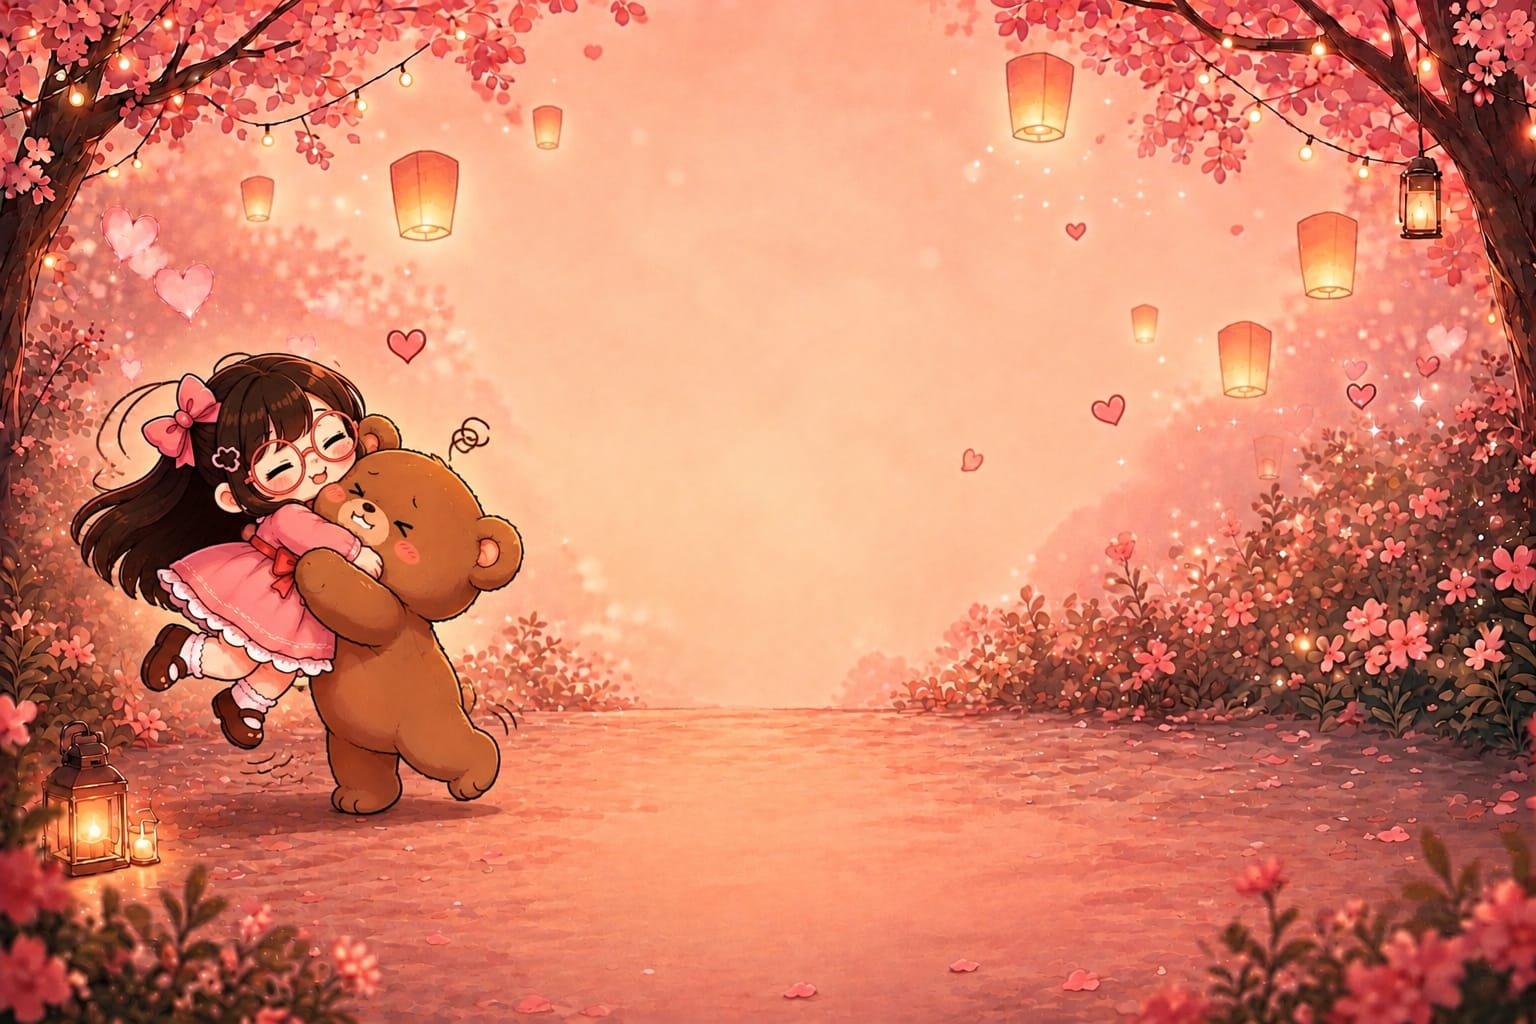
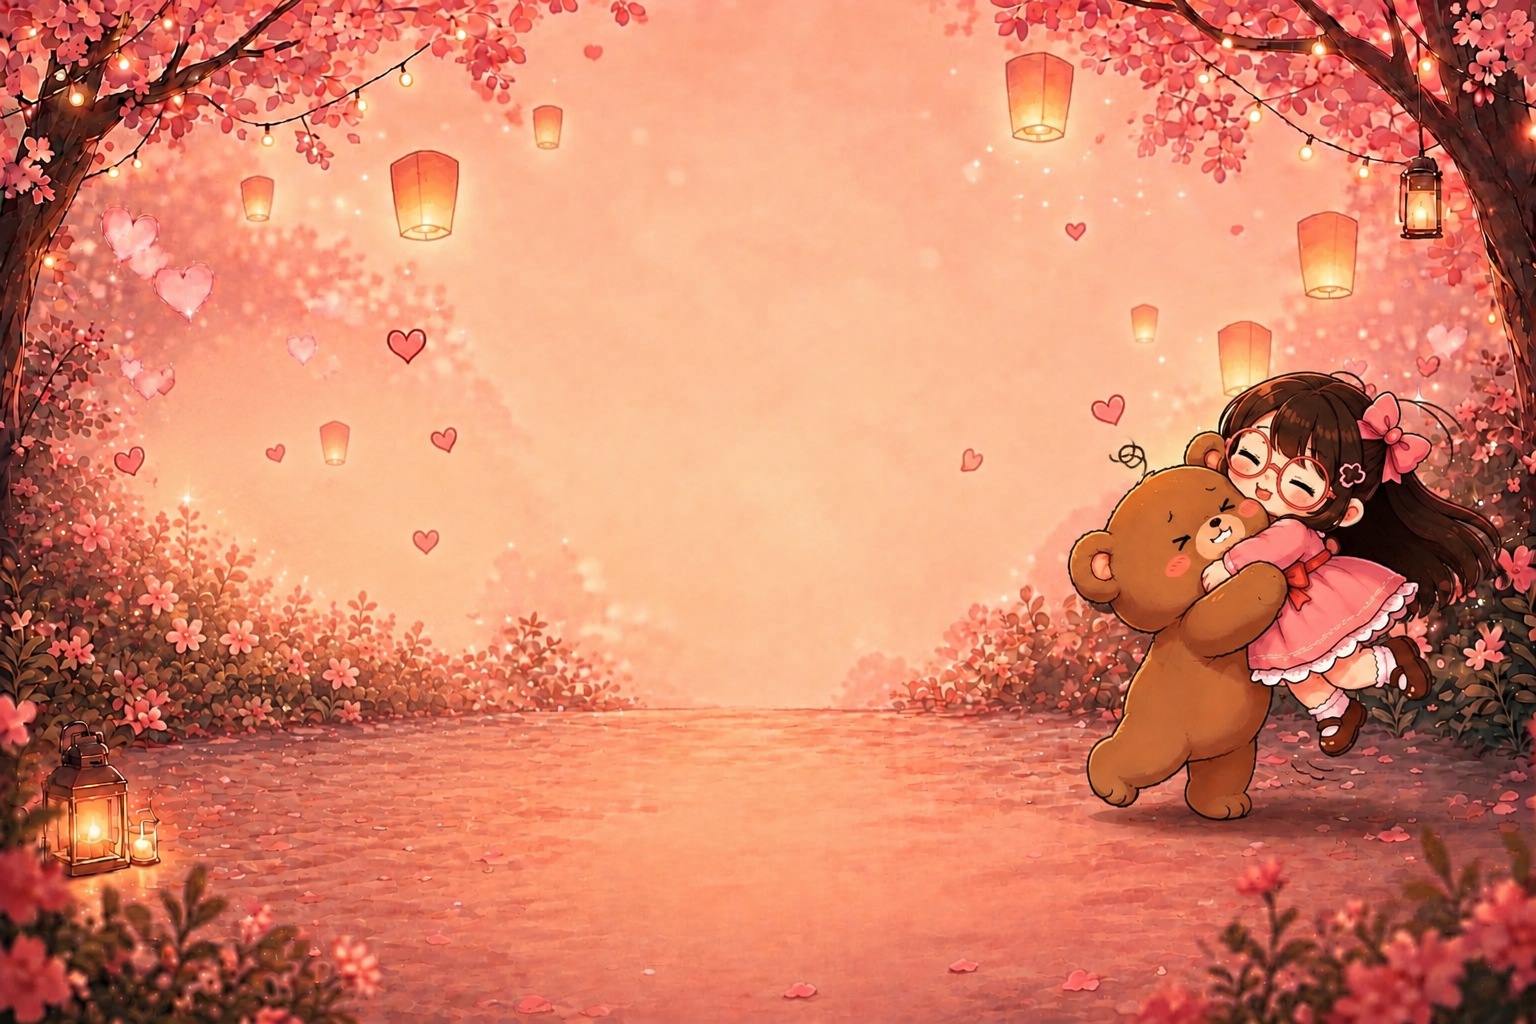
Update

diff --git a/src/main/java/loveCounter/UpdateManager.java b/src/main/java/loveCounter/UpdateManager.java
@@ -14,7 +14,7 @@ import java.util.Optional;
 public class UpdateManager {
     
     // Uygulamanın o anki mevcut sürümü
-    private static final String CURRENT_VERSION = "v1.0.2";
+    private static final String CURRENT_VERSION = "v1.0.3";
     
     // GitHub'da tutacağın basit metin dosyasının kalıcı (raw) linki
     // (Bunu birazdan birlikte ayarlayacağız, şimdilik böyle kalabilir)
